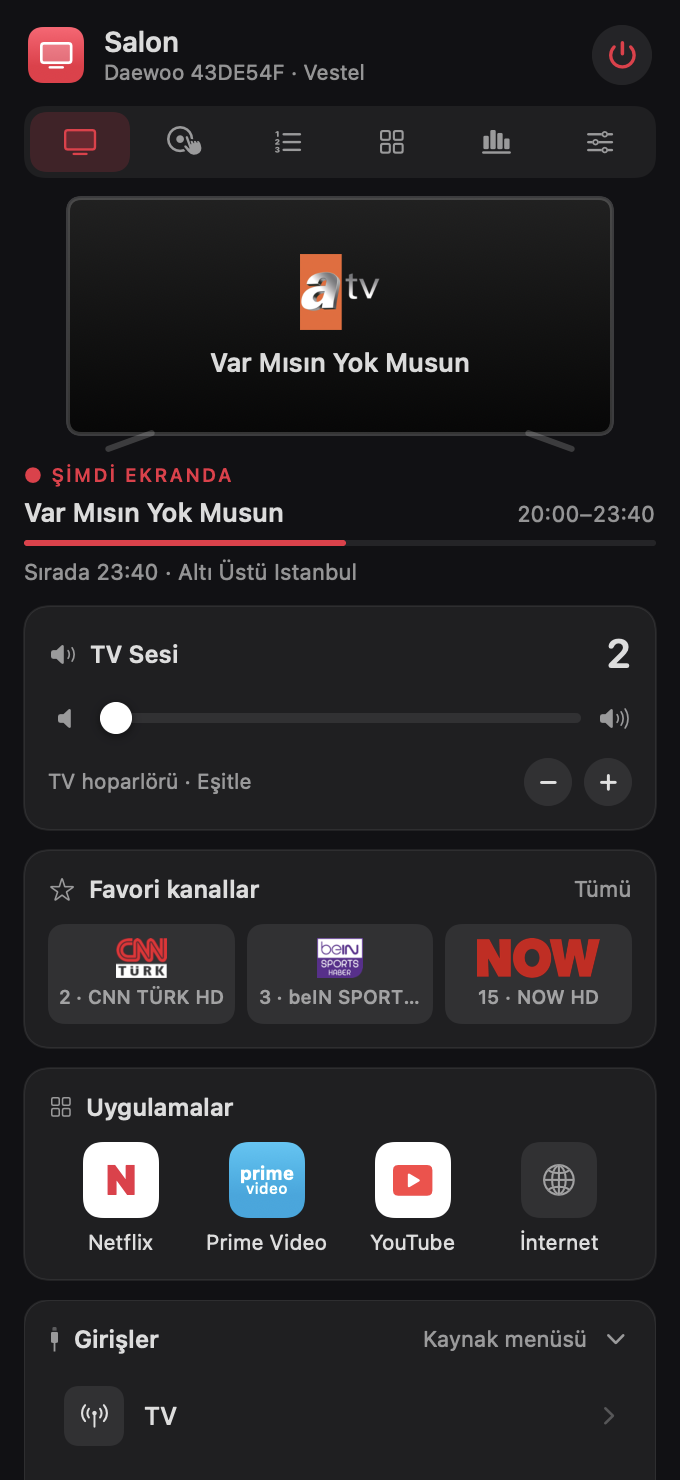
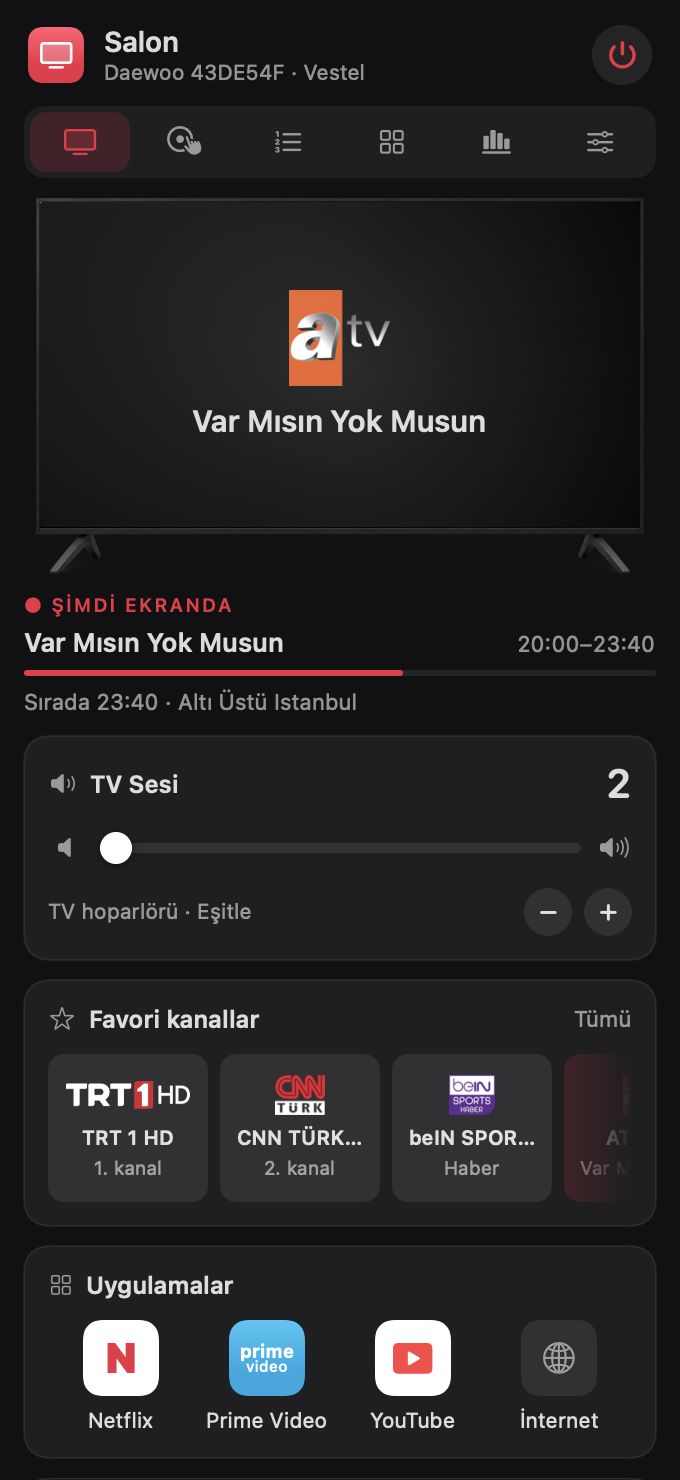
Ekranda: gerçekçi TV görseli
Çizgi TV ikonu yerine Higgsfield ile üretilen şeffaf arka planlı gerçekçi
TV görseli kullanılıyor; kanal logosu, program ve uygulama görselin ekran
alanına yerleştiriliyor, açık panelde hafif arka ışık ve cam yansıması var.

diff --git a/Sources/TVKumanda/Tabs.swift b/Sources/TVKumanda/Tabs.swift
@@ -73,21 +73,10 @@ struct NowTab: View {
     private func screen(at date: Date) -> some View {
         let programme = schedule(at: date)
         return VStack(spacing: 0) {
-            ZStack {
-                RoundedRectangle(cornerRadius: 6, style: .continuous)
-                    .fill(LinearGradient(colors: [Color(white: 0.13), Color(white: 0.03)], startPoint: .top, endPoint: .bottom))
-                    .overlay(RoundedRectangle(cornerRadius: 6, style: .continuous).stroke(Color.white.opacity(0.18), lineWidth: 2))
+            RealisticTV(isOn: tv.isOnline) {
                 screenContent(programme.now)
             }
-            .frame(height: 118)
-            .padding(.horizontal, 22)
-            HStack {
-                Capsule().fill(Color.white.opacity(0.18)).frame(width: 26, height: 3).rotationEffect(.degrees(-20))
-                Spacer()
-                Capsule().fill(Color.white.opacity(0.18)).frame(width: 26, height: 3).rotationEffect(.degrees(20))
-            }
-            .padding(.horizontal, 40)
-            .padding(.top, 2)
+            .padding(.horizontal, 6)
 
             HStack {
                 SectionLabel(text: "● Şimdi ekranda", color: Theme.accent)
@@ -109,22 +98,23 @@ struct NowTab: View {
 
     @ViewBuilder private func screenContent(_ programme: Programme?) -> some View {
         if !tv.isOnline {
+            // Kapalı panel gerçekte simsiyahtır; yalnızca soluk bir ipucu.
             VStack(spacing: 6) {
-                Image(systemName: "power").font(.system(size: 22))
-                Text("TV kapalı").font(.system(size: 12, weight: .medium))
+                Image(systemName: "power").font(.system(size: 18))
+                Text("TV kapalı").font(.system(size: 11, weight: .medium))
             }
-            .foregroundStyle(.secondary)
+            .foregroundStyle(Color.white.opacity(0.22))
         } else if let app = tv.runningApp {
             VStack(spacing: 8) {
-                AppBadge(app: app, size: 34)
-                Text(app.name).font(.system(size: 14, weight: .semibold))
+                AppBadge(app: app, size: 46)
+                Text(app.name).font(.system(size: 16, weight: .semibold))
             }
         } else if let channel = tv.currentChannel {
             VStack(spacing: 8) {
-                ChannelLogo(name: channel.name, height: programme == nil ? 46 : 38)
-                    .frame(maxWidth: 170)
+                ChannelLogo(name: channel.name, height: programme == nil ? 58 : 48)
+                    .frame(maxWidth: 200)
                 Text(programme?.title ?? "\(channel.number) · \(channel.name)")
-                    .font(.system(size: programme == nil ? 11 : 13, weight: .semibold))
+                    .font(.system(size: programme == nil ? 12 : 15, weight: .semibold))
                     .foregroundStyle(programme == nil ? .secondary : .primary)
                     .lineLimit(1)
                     .padding(.horizontal, 14)

diff --git a/Sources/TVKumanda/Components.swift b/Sources/TVKumanda/Components.swift
@@ -117,6 +117,52 @@ struct RemoteButton: View {
     }
 }
 
+/// Gerçekçi TV görseli (Resources/tv.png); içerik görseldeki ekran alanına yerleştirilir.
+struct RealisticTV<Content: View>: View {
+    var isOn: Bool
+    @ViewBuilder var content: () -> Content
+
+    /// tv.png içindeki ekran alanı, görsel boyutuna oranla.
+    private static var screen: CGRect { CGRect(x: 0.0061, y: 0.0099, width: 0.9867, height: 0.867) }
+
+    var body: some View {
+        if let image = BundledImage.named("tv") {
+            Image(nsImage: image)
+                .resizable()
+                .interpolation(.high)
+                .aspectRatio(contentMode: .fit)
+                .overlay {
+                    GeometryReader { proxy in
+                        let rect = CGRect(
+                            x: proxy.size.width * Self.screen.minX, y: proxy.size.height * Self.screen.minY,
+                            width: proxy.size.width * Self.screen.width, height: proxy.size.height * Self.screen.height
+                        )
+                        display(size: rect.size).position(x: rect.midX, y: rect.midY)
+                    }
+                }
+        } else {
+            display(size: CGSize(width: 260, height: 146))
+        }
+    }
+
+    private func display(size: CGSize) -> some View {
+        ZStack {
+            if isOn {
+                // Açık panelin hafif arka ışığı.
+                RadialGradient(colors: [Color(white: 0.17), Color(white: 0.03)], center: .center,
+                               startRadius: 0, endRadius: size.width * 0.62)
+            }
+            content()
+            // Camdaki yansıma içeriğin üstünde de görünsün.
+            LinearGradient(colors: [Color.white.opacity(0.07), .clear], startPoint: .topLeading, endPoint: .center)
+                .allowsHitTesting(false)
+        }
+        .frame(width: size.width, height: size.height)
+        .clipShape(RoundedRectangle(cornerRadius: 1.5, style: .continuous))
+        .animation(.easeInOut(duration: 0.35), value: isOn)
+    }
+}
+
 /// Uygulama logosu yerine kullanılan renkli rozet.
 struct AppBadge: View {
     let app: TVApp

diff --git a/Sources/TVKumanda/ChannelLogo.swift b/Sources/TVKumanda/ChannelLogo.swift
@@ -1,26 +1,34 @@
 import AppKit
 import SwiftUI
 
-/// Kanal logoları uygulama paketindeki Resources/Logos klasöründen, kanal adından türetilen anahtarla yüklenir:
-/// "TRT 1 HD" → trt1.png, "HABERTÜRK HD" → haberturk.png
+/// Uygulama paketinin Resources klasöründeki PNG'leri önbellekli yükler.
 @MainActor
-enum LogoCatalog {
+enum BundledImage {
     private static var cache: [String: NSImage?] = [:]
 
-    static func image(for name: String) -> NSImage? {
-        let key = NameKey.key(name)
-        if let cached = cache[key] { return cached }
-        var url = Bundle.main.url(forResource: key, withExtension: "png", subdirectory: "Logos")
+    static func named(_ name: String, in subdirectory: String? = nil) -> NSImage? {
+        let path = [subdirectory, name].compactMap { $0 }.joined(separator: "/")
+        if let cached = cache[path] { return cached }
+        var url = Bundle.main.url(forResource: name, withExtension: "png", subdirectory: subdirectory)
         #if DEBUG
         // Paketlenmemiş debug derlemesinde proje klasöründen oku.
         if url == nil {
-            let local = URL(fileURLWithPath: "Resources/Logos/\(key).png")
+            let local = URL(fileURLWithPath: "Resources/\(path).png")
             if FileManager.default.fileExists(atPath: local.path) { url = local }
         }
         #endif
         let image = url.flatMap(NSImage.init(contentsOf:))
-        cache[key] = image
+        cache[path] = image
         return image
+    }
+}
+
+/// Kanal logoları Resources/Logos klasöründen, kanal adından türetilen anahtarla yüklenir:
+/// "TRT 1 HD" → trt1.png, "HABERTÜRK HD" → haberturk.png
+@MainActor
+enum LogoCatalog {
+    static func image(for name: String) -> NSImage? {
+        BundledImage.named(NameKey.key(name), in: "Logos")
     }
 }
 

diff --git a/Sources/TVKumanda/Snapshot.swift b/Sources/TVKumanda/Snapshot.swift
@@ -9,7 +9,11 @@ enum Snapshot {
         guard let dir = ProcessInfo.processInfo.environment["TVKUMANDA_SNAPSHOT"] else { return }
         RootView.scrolls = false
         Task {
-            try? await Task.sleep(for: .seconds(8))
+            // TV durumu ve yayın akışı gelsin diye bekle (en fazla 20 sn).
+            for _ in 0..<40 where tv.epg.updatedAt == nil || !tv.isOnline {
+                try? await Task.sleep(for: .milliseconds(500))
+            }
+            try? await Task.sleep(for: .seconds(1))
             for tab in Tab.allCases {
                 UserDefaults.standard.set(tab.rawValue, forKey: "tab")
                 let renderer = ImageRenderer(content: RootView().environment(tv))
